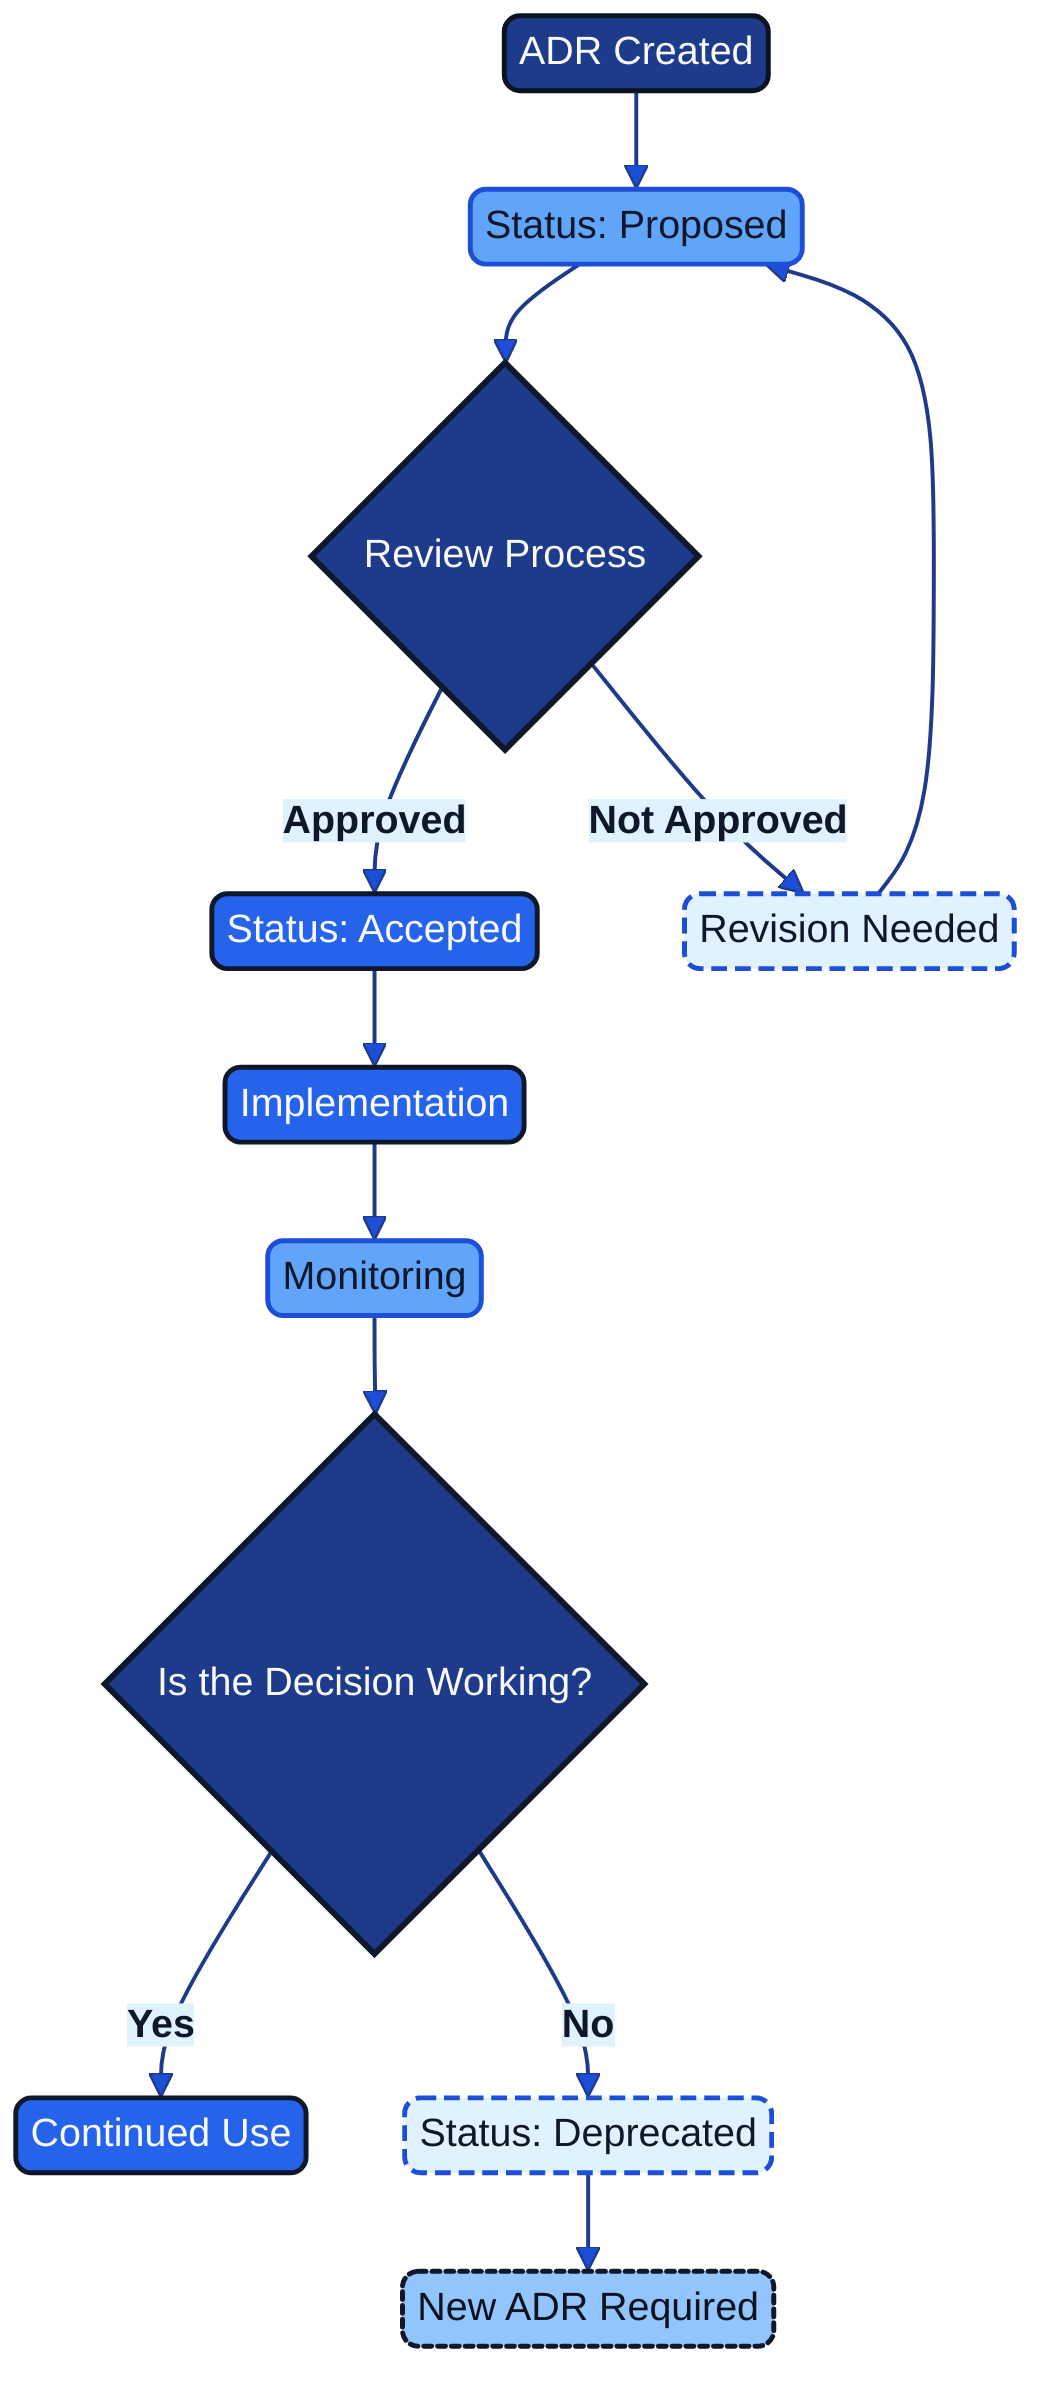
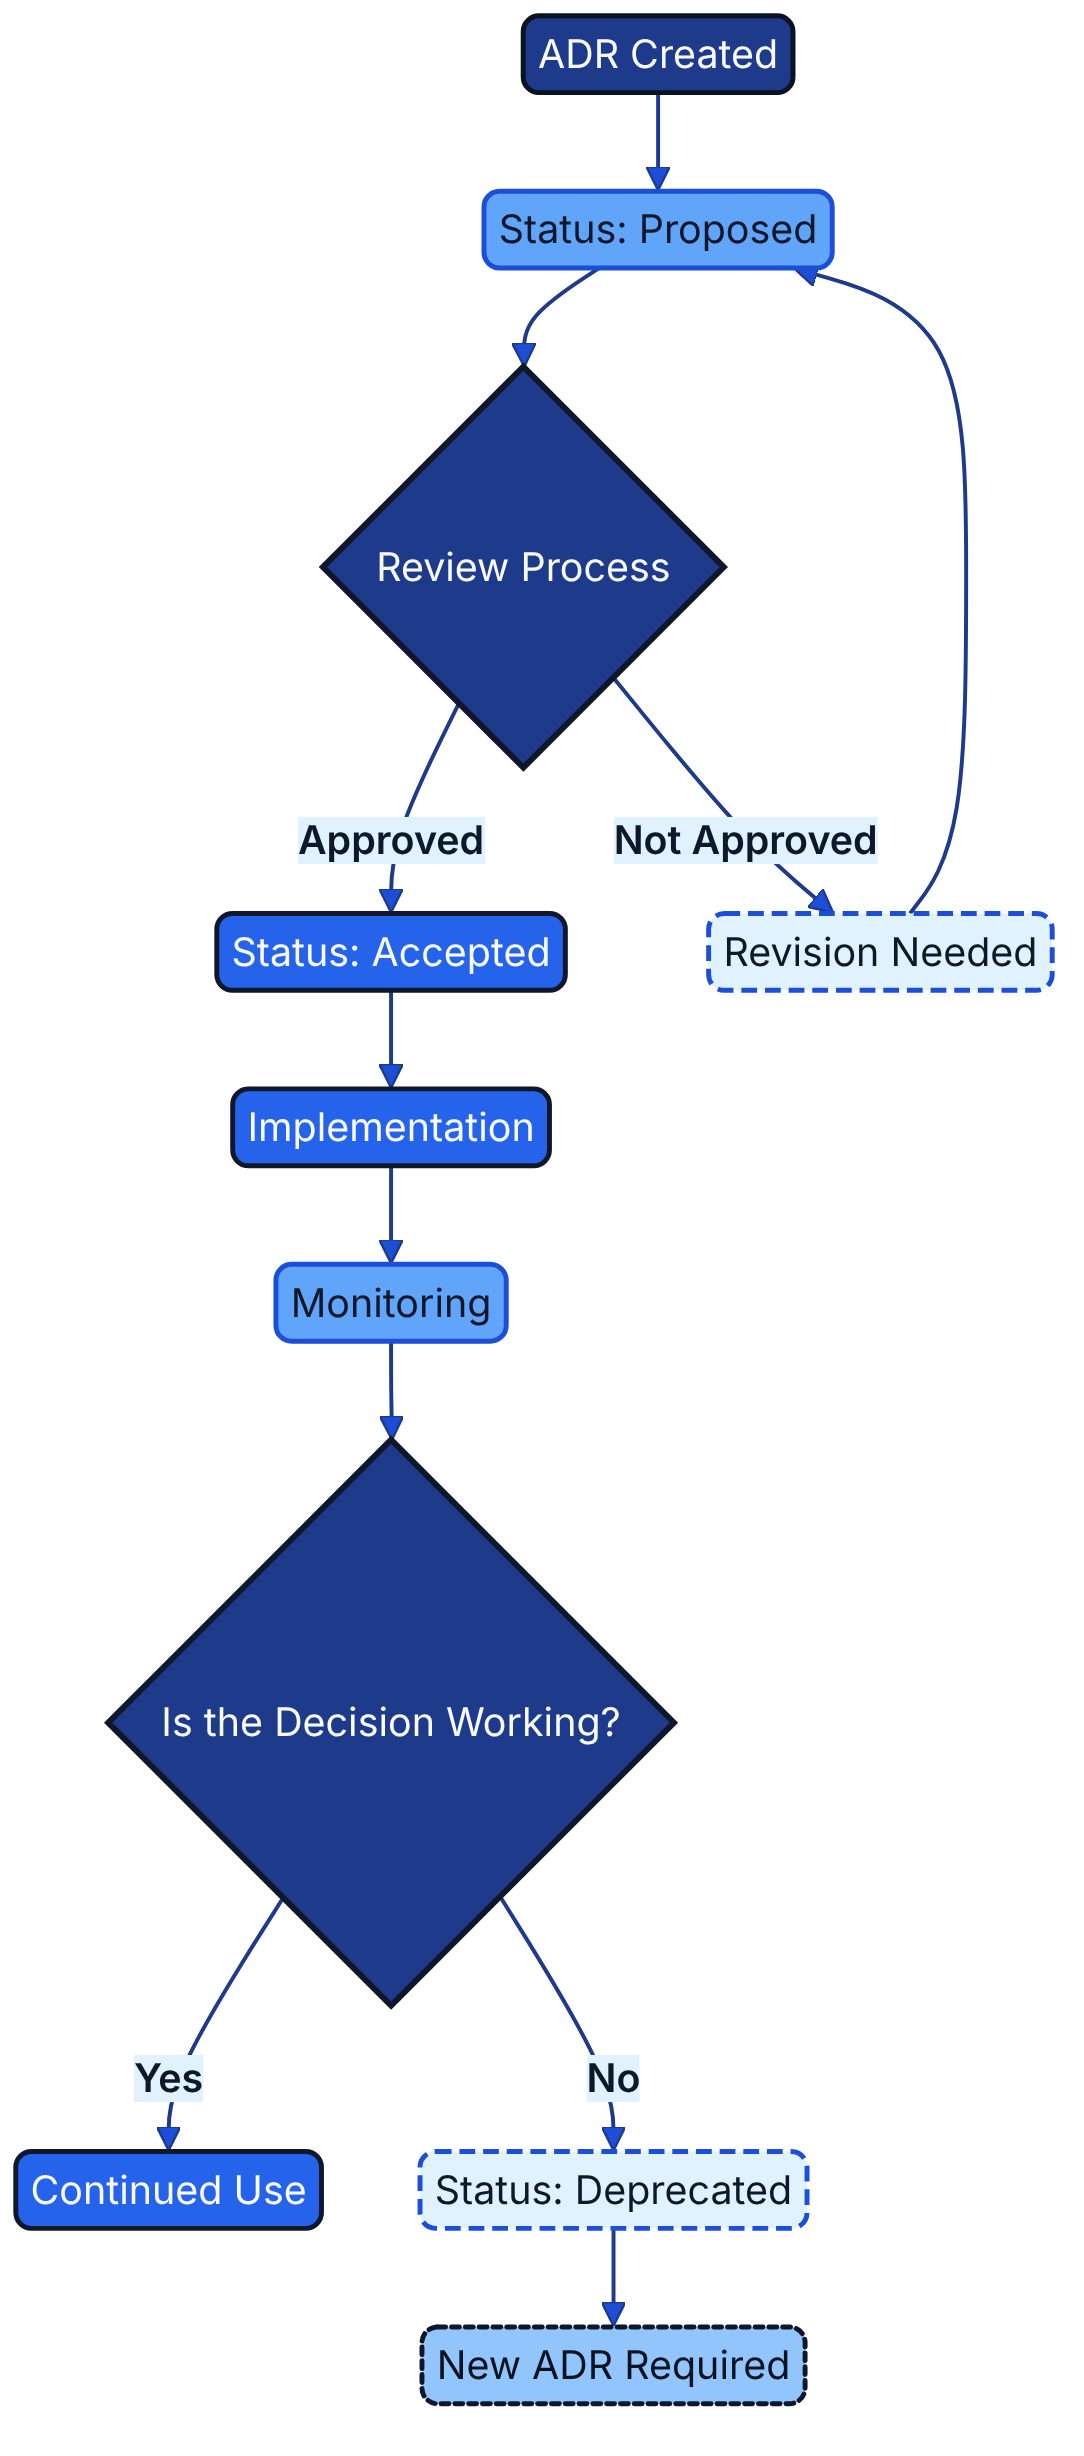
fix(diagrams): define kv-decision in the central theme and drop local classDefs
Regenerated the two affected PNGs with the repository's Mermaid CLI tooling.
The style guide now lists the one inline exception (Gantt init block).

Refs #1890

Claude-Session: https://claude.ai/code/session_01NaoqrpwjuagyTdzrYrBQSk

diff --git a/docs/DIAGRAM_STYLE_GUIDE.md b/docs/DIAGRAM_STYLE_GUIDE.md
@@ -28,6 +28,7 @@ All diagrams use the Kvadrat blue colour palette defined in `docs/mermaid-kvadra
 | `:::kv-highlight` | Light Blue | #3B82F6 | Emphasis elements, callouts |
 | `:::kv-muted` | Ice Blue | #E0F2FE | Background, deprecated elements |
 | `:::kv-pattern` | Lighter Blue | #93C5FD | Pattern elements, tertiary items |
+| `:::kv-decision` | Kvadrat Blue (Dark), heavy outline | #1E3A8A | Decision points (diamonds) |
 | `:::kv-outline` | White with Border | White + border | Hollow boxes, outline elements |
 
 ### Example Usage
@@ -202,7 +203,8 @@ requirementDiagram
 
 ### DON'T
 
-❌ Use inline theme configurations or style overrides  
+❌ Use inline theme configurations or style overrides (single exception: Gantt diagrams may carry an `%%{init}%%` block for Gantt-only variables such as bar height and task colours, which the central theme does not define; `STYLE_GUIDE.md` lists the approved values)  
+❌ Declare `classDef` colour classes in a diagram: every `kv-*` class, including `kv-decision`, lives in `docs/mermaid-kvadrat-theme.json`  
 ❌ Include emojis in titles, labels, or annotations  
 ❌ Use American English spellings (organization, optimization, behavior, center)  
 ❌ Override theme colours manually with hex codes  
